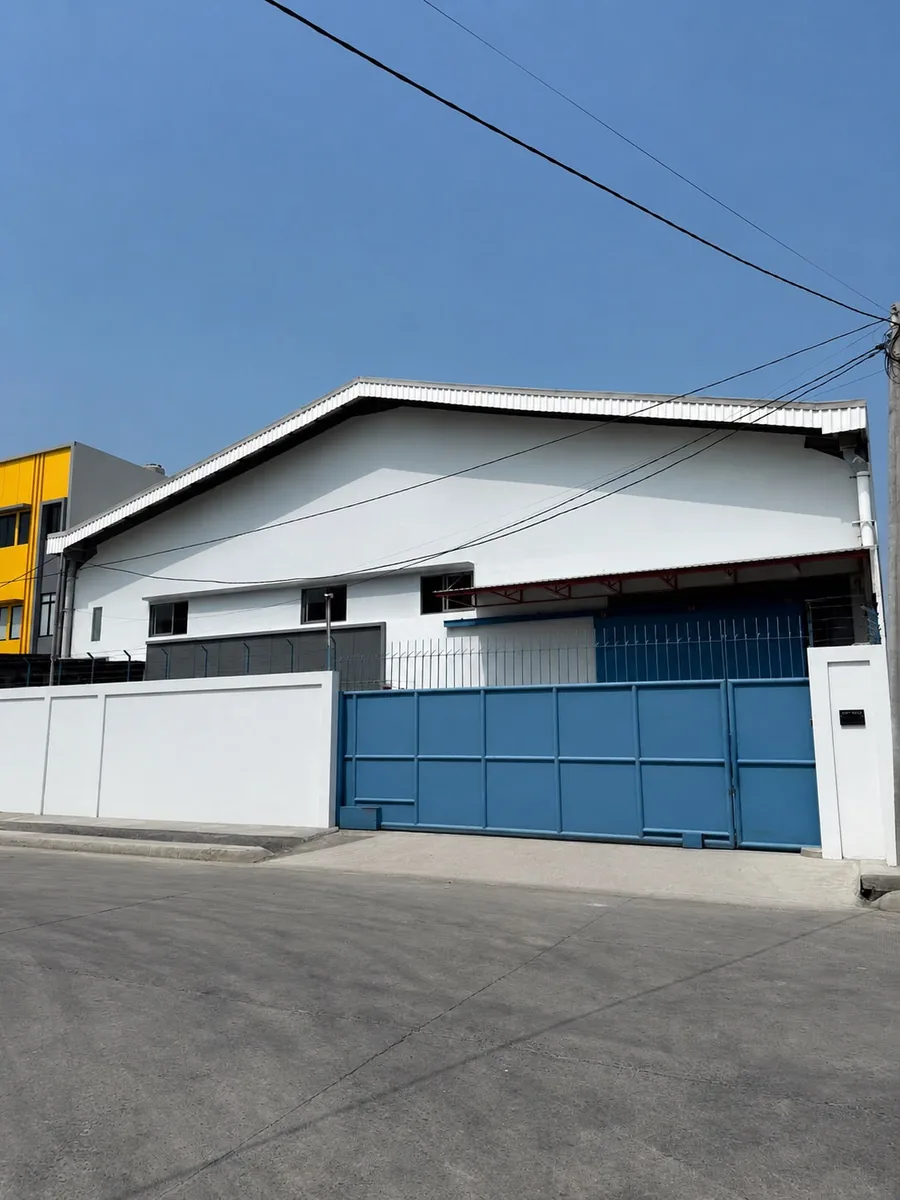
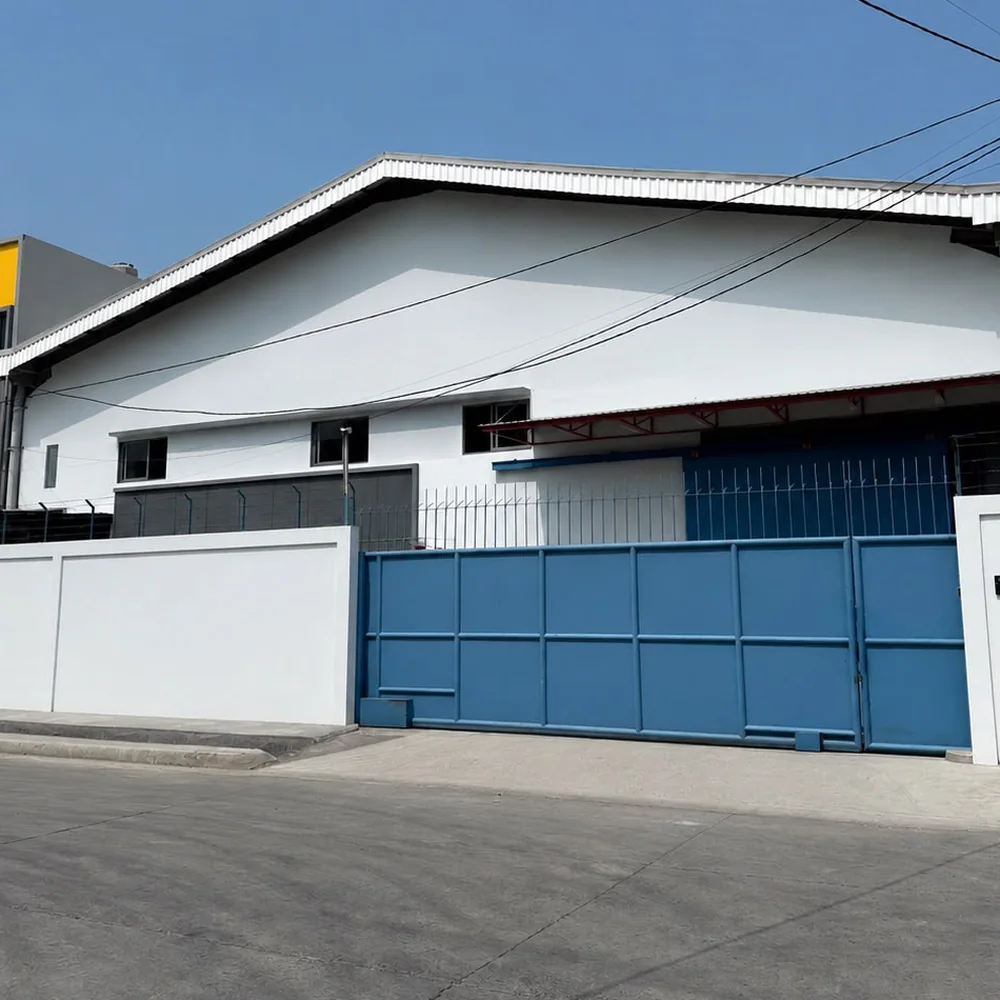
Add files via upload

diff --git a/tentang.html b/tentang.html
@@ -601,7 +601,7 @@ footer .f-brand .brand .wm small{display:block}
 .t-figure .ph-in svg{width:44px;height:44px;stroke:var(--gold-deep);fill:none;stroke-width:1.5;margin:0 auto 12px;display:block}
 .t-figure .ph-in b{font-family:var(--disp);font-size:14px;color:var(--ink-2);display:block}
 .t-figure .ph-in span{font-size:12.5px;color:var(--muted)}
-.t-figure--photo{aspect-ratio:3/4;background:var(--black-2)}
+.t-figure--photo{aspect-ratio:1/1;background:var(--black-2)}
 .t-figure--photo img{position:absolute;inset:0;width:100%;height:100%;object-fit:cover;display:block}
 .t-figcap{position:absolute;left:14px;bottom:12px;z-index:2;font-family:var(--disp);font-size:12px;letter-spacing:.04em;color:#fff;background:rgba(0,0,0,.42);padding:5px 12px;border-radius:100px;backdrop-filter:blur(4px)}
 
@@ -741,7 +741,7 @@ footer .f-brand .brand .wm small{display:block}
         <p>Kami bagian dari <b>PT Putra Surya Grup</b> (sejak 2022), dengan mesin terkalibrasi, kontrol kualitas ketat, dan stok yang konsisten &mdash; supply lokal yang tepercaya dan selalu ada saat Anda butuh cepat.</p>
       </div>
       <figure class="t-figure t-figure--photo" aria-label="Pabrik Vanguard Tape di Tangerang">
-        <img src="/pabrik-vanguard.webp" width="900" height="1200" loading="lazy" decoding="async"
+        <img src="/pabrik-vanguard.webp" width="1000" height="1000" loading="lazy" decoding="async"
              alt="Pabrik Vanguard Tape, produsen lakban custom BOPP di Tangerang">
         <figcaption class="t-figcap">Pabrik kami di Tangerang</figcaption>
       </figure>